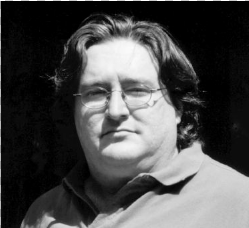
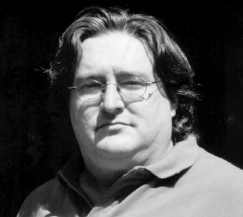
fixade bilden på rektorn

diff --git a/site/index.html b/site/index.html
@@ -6,7 +6,6 @@
     <title></title>
 </head>
 <body>
-    <div id="backgrundsbild" ></div>
     <div id="background">
         <div id="header">
             <div id="logo_box">
@@ -14,17 +13,17 @@
             </div>
                 <div id="header2">
                     <ul class="nav-list">
-                        <li id="hem" class="nav-li"><a class="active nav-link"href="index.html">
+                        <li id="hem" class="active-li"><a class="active nav-link"href="index.html">
                             <img src="img/hem_knapp.jpg">
                         </a></li>
-                        <li id="program" class="nav-li"><a class="nav-link"href="#">
+                        <li id="program" class="nav-li"><a class="nav-link"href="program.html">
                             <img src="img/program_knapp.jpg">
                         </a></li>
-                        <li id="mer_info" class="active-li"><a class="nav-link"href="#">
-                            <img src="img/mer_info.jpg">
-                        </a></li>
-                        <li id="om_oss" class="nav-li"><a class="nav-link"href="#">
+                        <li id="om_oss" class="nav-li"><a class="nav-link"href="om_oss.html">
                             <img src="img/om_oss.jpg">
+                        </a></li>
+                        <li id="kontakta" class="nav-li"><a class="nav-link"href="kontakta.html">
+                            <img src="img/kontakta.jpg">
                         </a></li>
                     </ul>
                 </div>
@@ -32,7 +31,15 @@
                     <img id="namn" src="img/namn_kalleper_fix.png"/>
                 </div>
         </div>
-        <div id="container"></div>
+    </div>
+        <div id="container">
+            <link href='http://fonts.googleapis.com/css?family=Open+Sans' rel='stylesheet' type='text/css'>
+            <h1 id="nyhet">DAGENS NYHET</h1>
+            <p>In pretium elit eget luctus faucibus. Proin ligula est, porta eu nisl ac, blandit auctor odio. Nullam ex turpis, dignissim non nibh vel, bibendum imperdiet purus. Cras ut orci elit. Sed fermentum sed diam sed mollis. Aliquam imperdiet in diam vel molestie. Interdum et malesuada fames ac ante ipsum primis in faucibus. Aliquam nec enim mollis, ultricies erat id, bibendum velit. Maecenas eu lacus sed sapien porta mollis. Sed sollicitudin nisl at odio pellentesque maximus. Etiam elementum, augue quis tristique tempus, justo est commodo nisi, mollis ornare sem diam et nulla. Vivamus lorem ipsum, pharetra id finibus et, euismod commodo risus. Suspendisse fringilla, tellus quis gravida maximus, libero nulla pulvinar justo, eget vestibulum lacus felis ut ex. Aliquam imperdiet mi vel scelerisque sagittis.                In pretium elit eget luctus faucibus. Proin ligula est, porta eu nisl ac, blandit auctor odio. Nullam ex turpis, dignissim non nibh vel, bibendum imperdiet purus. Cras ut orci elit. Sed fermentum sed diam sed mollis. Aliquam imperdiet in diam vel molestie. Interdum et malesuada fames ac ante ipsum primis in faucibus. Aliquam nec enim mollis, ultricies erat id, bibendum velit. Maecenas eu lacus sed sapien porta mollis. Sed sollicitudin nisl at odio pellentesque maximus. Etiam elementum, augue quis tristique tempus, justo est commodo nisi, mollis ornare sem diam et nulla. Vivamus lorem ipsum, pharetra id finibus et, euismod commodo risus. Suspendisse fringilla, tellus quis gravida maximus, libero nulla pulvinar justo, eget vestibulum lacus felis ut ex. Aliquam imperdiet mi vel scelerisque sagittis.</p>
+        </div>
+    </div>
+    <div id="container_bottom">
+        <img id="namn_bottom" src="img/namn_kalleper_fix.png">
     </div>
 </body>
 </html>
